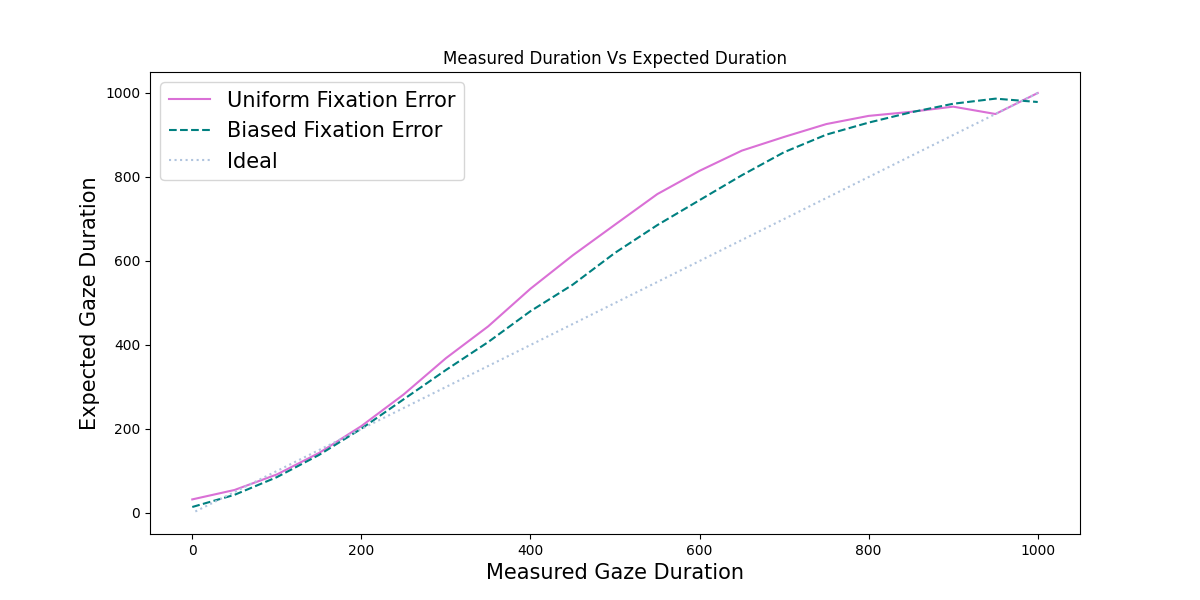
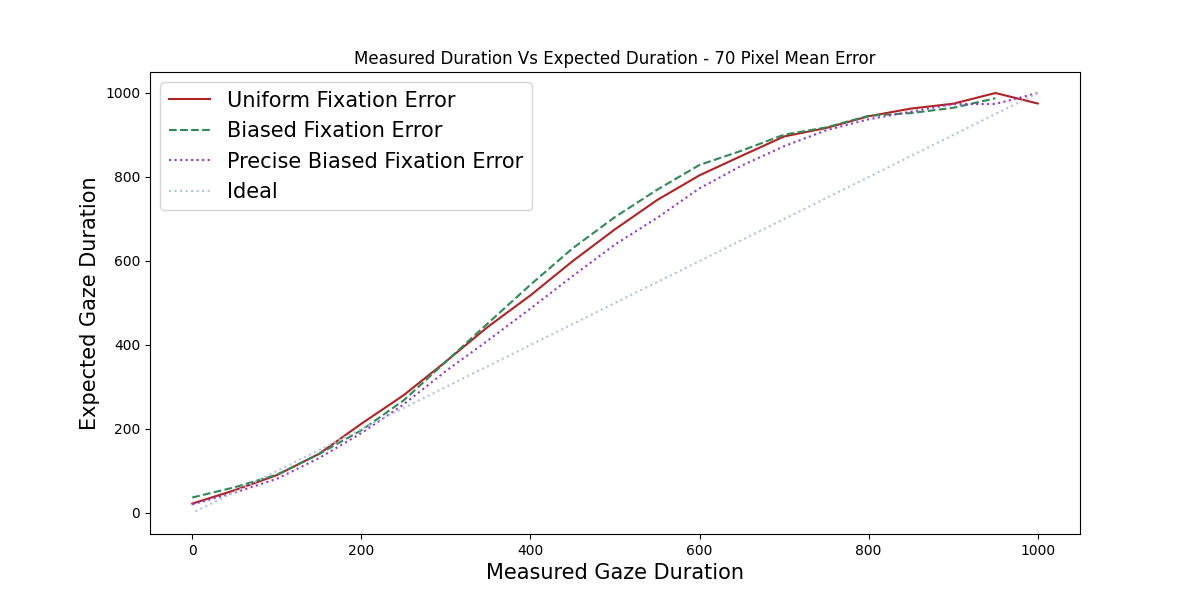
Measured Vs Expected Change

diff --git a/scripts/plot_measured_vs_expected.py b/scripts/plot_measured_vs_expected.py
@@ -1,3 +1,4 @@
+import numpy as np
 import pandas as pd
 import matplotlib.pyplot as plt
 
@@ -8,6 +9,10 @@ file3 = "results/MREC_MErr_Biased_Precise_70/expected_values.csv"
 df = pd.read_csv(file)
 df2 = pd.read_csv(file2)
 df3 = pd.read_csv(file3)
+
+df['Expected'] = df['Expected'].replace({'0':np.nan, 0:np.nan})
+df2['Expected'] = df2['Expected'].replace({'0':np.nan, 0:np.nan})
+df3['Expected'] = df3['Expected'].replace({'0':np.nan, 0:np.nan})
 
 measured = df['Measured']
 expected = df['Expected']
@@ -26,8 +31,8 @@ ax.plot(measured3, expected3, c='darkorchid', label="Precise Biased Fixation Err
 p1 = max(max(measured), max(expected))
 p2 = min(min(measured), min(expected))
 ax.plot([p1, p2], [p1, p2], c='lightsteelblue', linestyle='dotted', label='Ideal' )
-ax.set_xlabel('Measured Gaze Duration', fontsize=15)
-ax.set_ylabel('Expected Gaze Duration', fontsize=15)
+ax.set_xlabel('Measured Gaze Duration (ms)', fontsize=15)
+ax.set_ylabel('Expected Gaze Duration (ms)', fontsize=15)
 ax.legend( prop={'size': 15} )
 
 plt.savefig("results/Measured_vs_expected.png")
